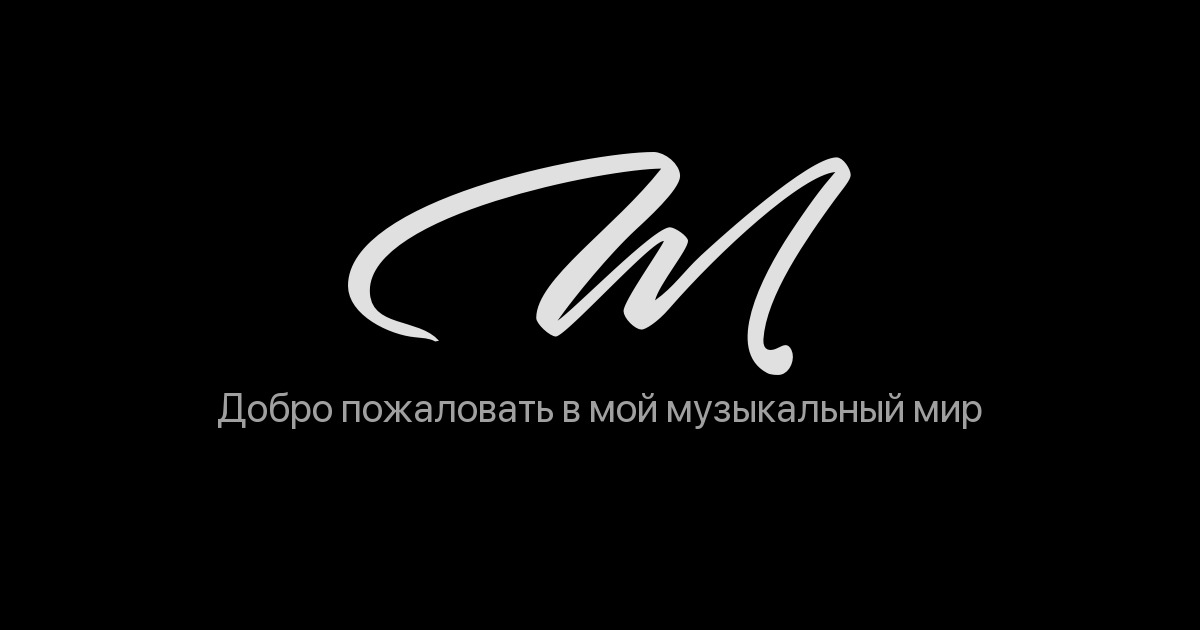
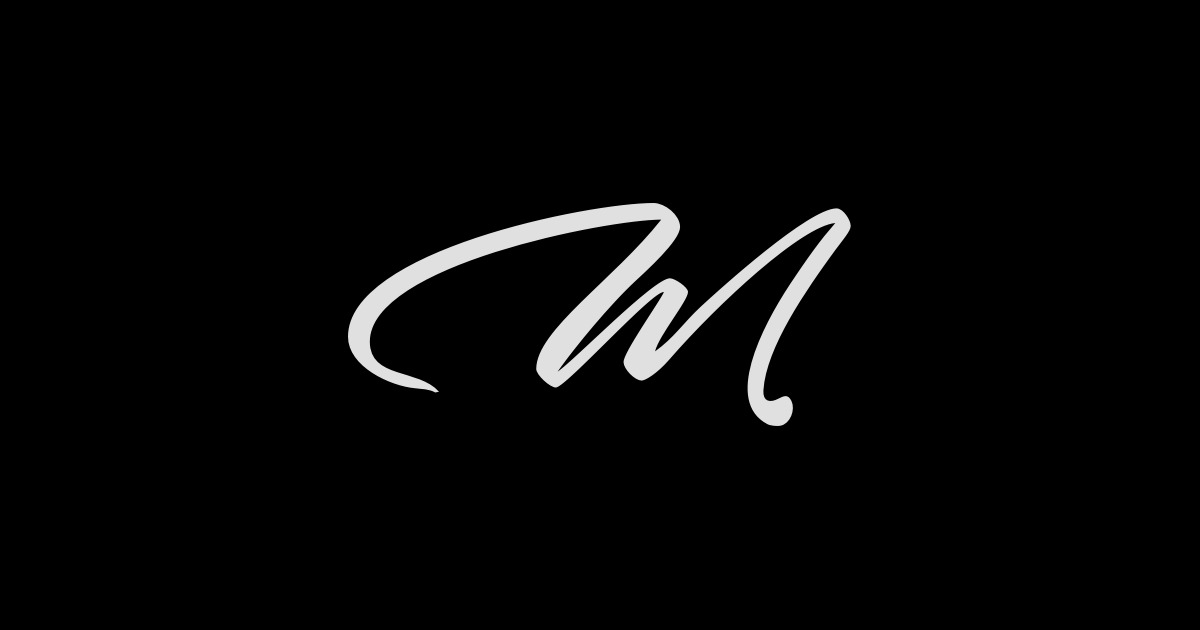
OG/Twitter: short welcome description

Changed region(s): [[0.185, 0.2413, 0.8325, 0.6937]]

diff --git a/index.html b/index.html
@@ -11,13 +11,13 @@
     <meta property="og:type" content="website">
     <meta property="og:url" content="https://matesound.github.io/">
     <meta property="og:title" content="Mate | Deep House & Organic House">
-    <meta property="og:description" content="Mate — DJ и продюсер из Беларуси. Organic House, Deep House. Дебютный сингл Echoes of Dusk.">
+    <meta property="og:description" content="Добро пожаловать в мой музыкальный мир">
     <meta property="og:image" content="https://matesound.github.io/og/preview_og.jpg">
     <meta property="og:image:width" content="1200">
     <meta property="og:image:height" content="630">
     <meta name="twitter:card" content="summary_large_image">
     <meta name="twitter:title" content="Mate | Deep House & Organic House">
-    <meta name="twitter:description" content="Mate — DJ и продюсер из Беларуси. Organic House, Deep House. Дебютный сингл Echoes of Dusk.">
+    <meta name="twitter:description" content="Добро пожаловать в мой музыкальный мир">
     <meta name="twitter:image" content="https://matesound.github.io/og/preview_og.jpg">
 
     <style>
